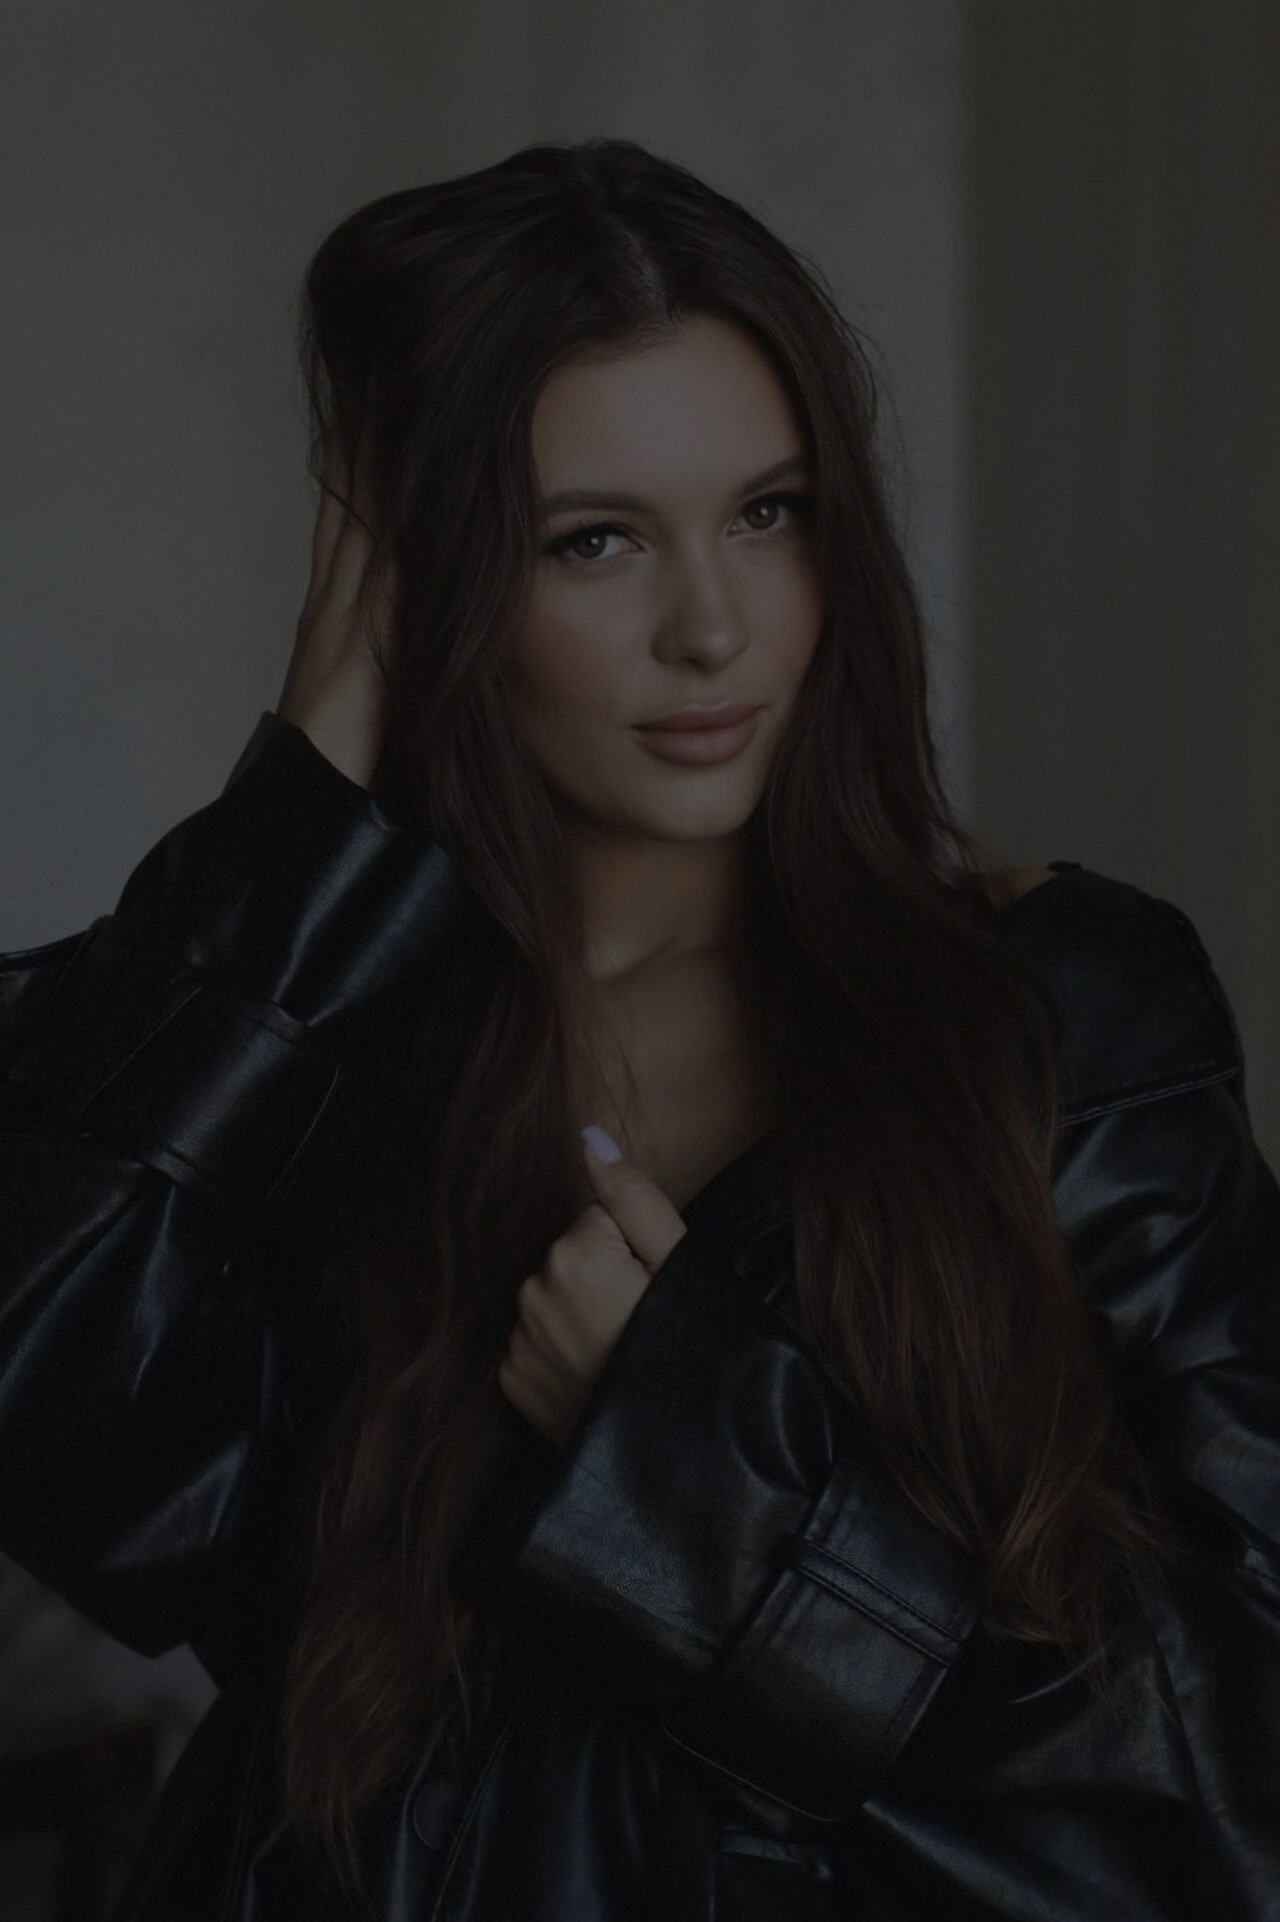
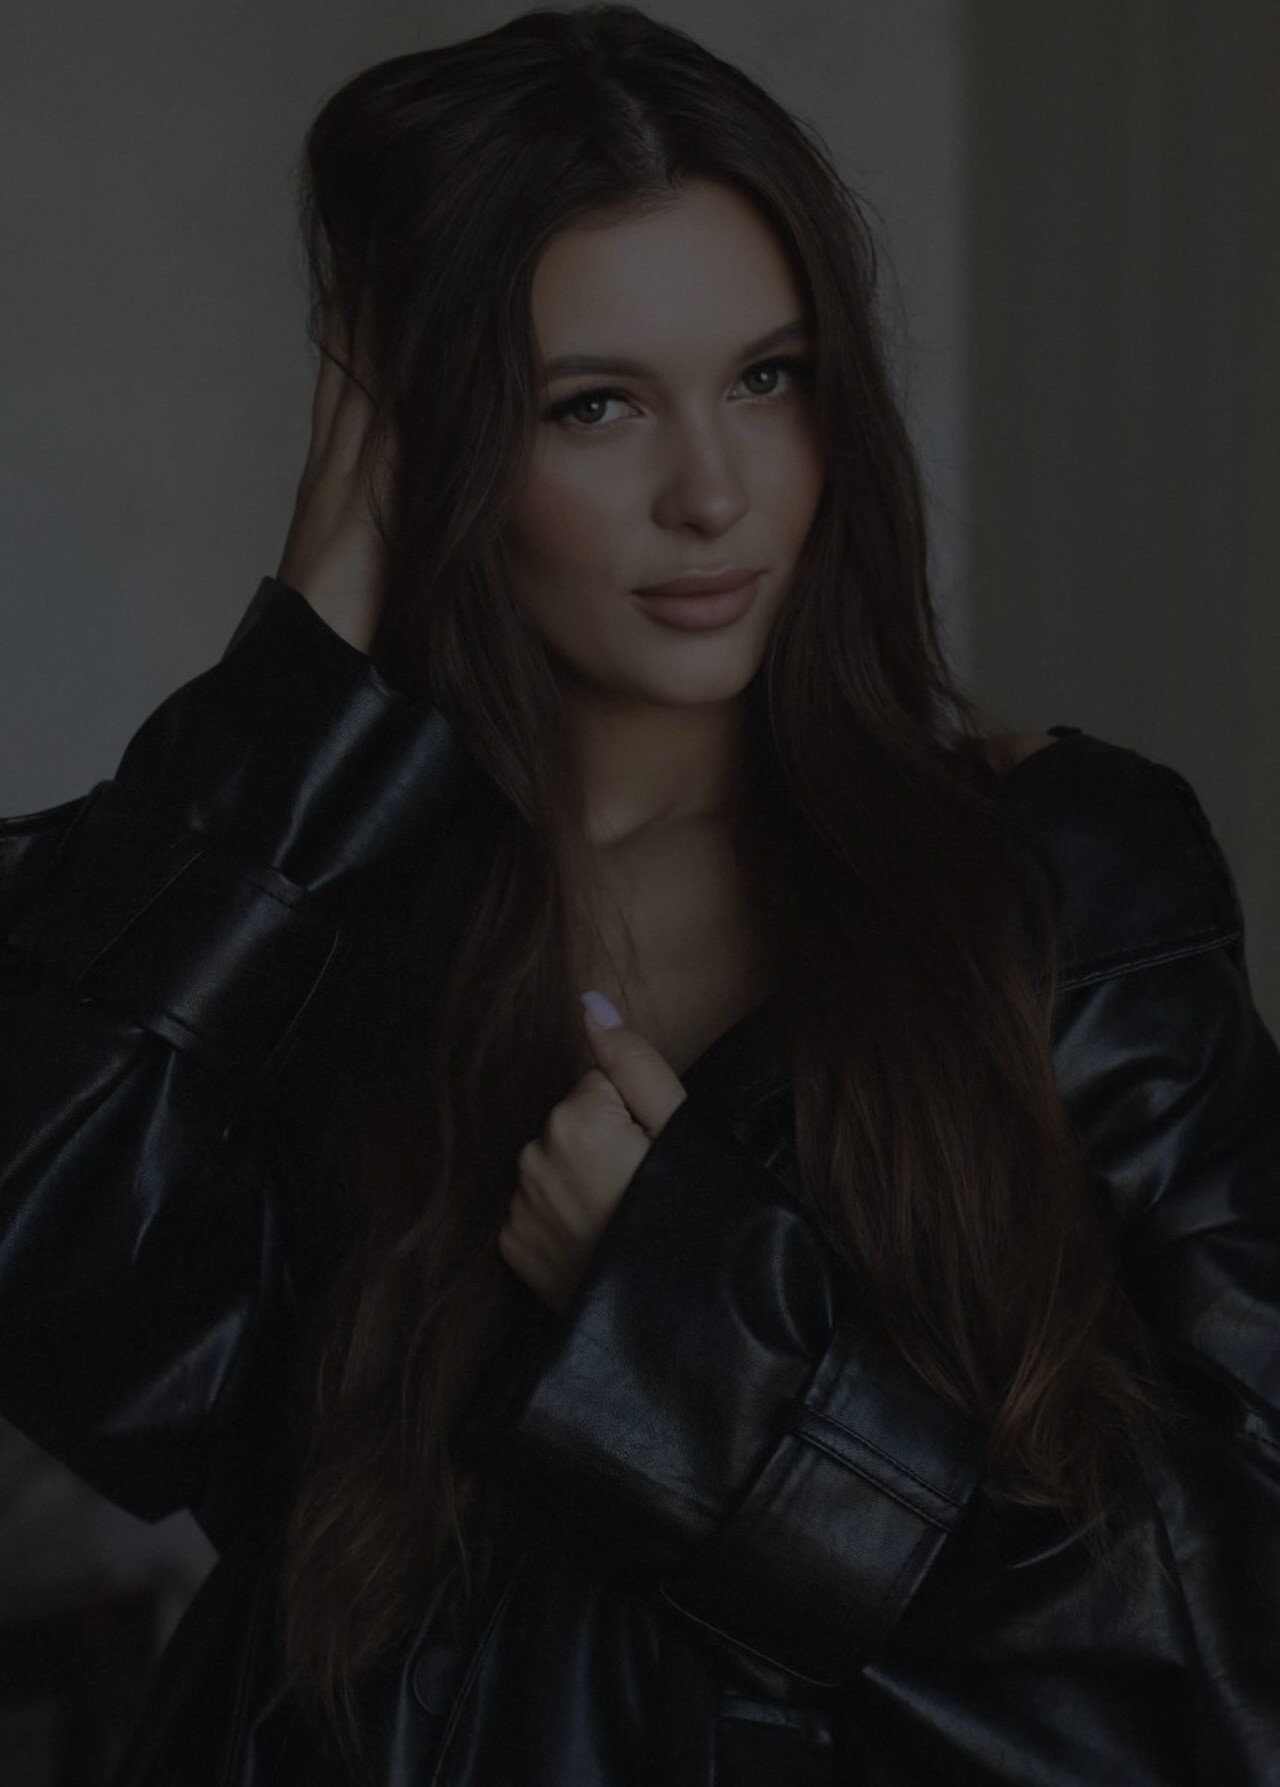
Добавлены правки на русском, изменен размер фото

diff --git a/index.html b/index.html
@@ -39,7 +39,7 @@
 					<div class="top-nav">
 					<div class="navigation">
 					<div class="logo">
-						<h1><a href="index.html"><span>А</span>Альфа</a></h1>
+						<h1><a href="index.html"><span>А</span>,<h2>Альфа-банк</h2></a></h1>
 					</div>
 					<div class="navigation-right">
 						<span class="menu"><img src="images/menu.png" alt=" " /></span>
@@ -128,12 +128,8 @@
 					                <div class="item">
 					                	<div class="about-left-grid">
 											<h2>Приветствую! <span>Меня зовут Диана!</span></h2>
-											<p>Я являюсь главным советником по бизнесу в Альфа Банке с опытом работы в этой сфере более 3 лет. За это время мне удалось разработать и внедрить стратегии, которые способствовали росту бизнеса и укреплению отношений с клиентами.
-                                                Моя работа включает в себя:
-                                                - Анализ потребностей клиентов для создания индивидуальных финансовых решений.
-                                                - Консультирование бизнеса по вопросам кредитования, инвестиционных возможностей и управления рисками.
-                                                - Сбор и анализ данных для оценки финансовых показателей и выявления новых возможностей для роста.
-                                                Я горжусь тем, что могу предложить своим клиентам экспертизу и поддержку на каждом этапе их бизнес-пути. Моя цель — помочь клиентам достигать их бизнес-целей с помощью надёжных и инновационных банковских решений.</p>
+											<p>Я являюсь главным советником по бизнесу в Альфа Банке с опытом работы в этой сфере более 3 лет.
+                                                За это время мне удалось разработать и внедрить стратегии, которые способствовали росту бизнеса и укреплению отношений с клиентами.</p>
 											<ul>
 												<li><a class="a-btn-a scroll" href="#port">Моя работа</a></li>
 												<li><a class="a-btn-h scroll" href="#contact">Обо мне</a></li>
@@ -143,12 +139,11 @@
 					                  <div class="item">
 					                	<div class="about-left-grid">
 											<h2>Приветствую! <span>Меня зовут Диана!</span></h2>
-											<p>Я являюсь главным советником по бизнесу в Альфа Банке с опытом работы в этой сфере более 3 лет. За это время мне удалось разработать и внедрить стратегии, которые способствовали росту бизнеса и укреплению отношений с клиентами.
-                                                Моя работа включает в себя:
+											<p>Моя работа включает в себя:
                                                 - Анализ потребностей клиентов для создания индивидуальных финансовых решений.
                                                 - Консультирование бизнеса по вопросам кредитования, инвестиционных возможностей и управления рисками.
                                                 - Сбор и анализ данных для оценки финансовых показателей и выявления новых возможностей для роста.
-                                                Я горжусь тем, что могу предложить своим клиентам экспертизу и поддержку на каждом этапе их бизнес-пути. Моя цель — помочь клиентам достигать их бизнес-целей с помощью надёжных и инновационных банковских решений.</p>
+                                            </p>
 											<ul>
 												<li><a class="a-btn-a scroll" href="#port">Моя работа</a></li>
 												<li><a class="a-btn-h scroll" href="#contact">Обо мне</a></li>
@@ -158,12 +153,8 @@
 					                  <div class="item">
 					                	<div class="about-left-grid">
 											<h2>Приветствую! <span>Меня зовут Диана!</span></h2>
-											<p>Я являюсь главным советником по бизнесу в Альфа Банке с опытом работы в этой сфере более 3 лет. За это время мне удалось разработать и внедрить стратегии, которые способствовали росту бизнеса и укреплению отношений с клиентами.
-                                                Моя работа включает в себя:
-                                                - Анализ потребностей клиентов для создания индивидуальных финансовых решений.
-                                                - Консультирование бизнеса по вопросам кредитования, инвестиционных возможностей и управления рисками.
-                                                - Сбор и анализ данных для оценки финансовых показателей и выявления новых возможностей для роста.
-                                                Я горжусь тем, что могу предложить своим клиентам экспертизу и поддержку на каждом этапе их бизнес-пути. Моя цель — помочь клиентам достигать их бизнес-целей с помощью надёжных и инновационных банковских решений.</p>
+											<p>Я горжусь тем, что могу предложить своим клиентам экспертизу и поддержку на каждом этапе их бизнес-пути.
+                                                Моя цель — помочь клиентам достигать их бизнес-целей с помощью надёжных и инновационных банковских решений.</p>
 											<ul>
 												<li><a class="a-btn-a scroll" href="#port">Моя работа</a></li>
 												<li><a class="a-btn-h scroll" href="#contact">Обо мне</a></li>
@@ -294,10 +285,10 @@
 																  <div class="timeline-badge info"><i class="glyphicon glyphicon-briefcase"></i></div>
 																  <div class="timeline-panel">
 																	<div class="timeline-heading">
-																	  <h4 class="timeline-title">COMPANY NAME</h4>
+																	  <h4 class="timeline-title">Компания</h4>
 																	</div>
 																	<div class="timeline-body">
-																	  <p>Lorem ipsum dolor sit amet.Itaque earum rerum hic tenetur a sapiente delectus, ut aut reiciendis voluptatibus maiores alias consequatur aut perferendis doloribus </p>
+																	  <p>Описание </p>
 																	</div>
 																  </div>
 																</li>
@@ -306,10 +297,10 @@
 																  <div class="timeline-badge primary"><i class="glyphicon glyphicon-briefcase"></i></div>
 																  <div class="timeline-panel">
 																	<div class="timeline-heading">
-																	  <h4 class="timeline-title">COMPANY NAME</h4>
+																	  <h4 class="timeline-title">Компания</h4>
 																	</div>
 																	<div class="timeline-body">
-																	  <p>Lorem ipsum dolor sit amet.Itaque earum rerum hic tenetur a sapiente delectus, ut aut reiciendis voluptatibus maiores alias consequatur aut perferendis doloribus </p>
+																	  <p>Описание </p>
 																	</div>
 																  </div>
 																</li>
@@ -320,10 +311,10 @@
 																  <div class="timeline-badge danger"><i class="glyphicon glyphicon-briefcase"></i></div>
 																  <div class="timeline-panel">
 																	<div class="timeline-heading">
-																	  <h4 class="timeline-title">COMPANY NAME</h4>
+																	  <h4 class="timeline-title">Компания</h4>
 																	</div>
 																	<div class="timeline-body">
-																	  <p>Lorem ipsum dolor sit amet.Itaque earum rerum hic tenetur a sapiente delectus, ut aut reiciendis voluptatibus maiores alias consequatur aut perferendis doloribus </p>
+																	  <p>Описание </p>
 																	</div>
 																  </div>
 																</li>
@@ -332,10 +323,10 @@
 																  <div class="timeline-badge success"><i class="glyphicon glyphicon-briefcase"></i></div>
 																  <div class="timeline-panel">
 																	<div class="timeline-heading">
-																	  <h4 class="timeline-title">COMPANY NAME</h4>
+																	  <h4 class="timeline-title">Компания</h4>
 																	</div>
 																	<div class="timeline-body">
-																	  <p>Lorem ipsum dolor sit amet.Itaque earum rerum hic tenetur a sapiente delectus, ut aut reiciendis voluptatibus maiores alias consequatur aut perferendis doloribus </p>
+																	  <p>Описание</p>
 																	</div>
 																  </div>
 																</li>
@@ -343,10 +334,10 @@
 																  <div class="timeline-badge pass"><i class="glyphicon glyphicon-briefcase"></i></div>
 																  <div class="timeline-panel">
 																	<div class="timeline-heading">
-																	  <h4 class="timeline-title">COMPANY NAME</h4>
+																	  <h4 class="timeline-title">Компания</h4>
 																	</div>
 																	<div class="timeline-body">
-																	  <p>Lorem ipsum dolor sit amet.Itaque earum rerum hic tenetur a sapiente delectus, ut aut reiciendis voluptatibus maiores alias consequatur aut perferendis doloribus </p>
+																	  <p>Описание </p>
 																	</div>
 																  </div>
 																</li>
@@ -458,7 +449,7 @@
 	<div class="container">
 	<div class="service-head one text-center">
 						<h4>Мои контакты</h4>
-						<h3>GET <span>IN TOUCH WITH ME</span></h3>
+						<h3>Связаться <span>со мной</span></h3>
 						<span class="border two"></span>
 					</div>
 		<div class="mail_us">
@@ -466,7 +457,7 @@
 				<div class="contact-grid1-left">
 					<div class="contact-grid1-left1">
 						<span class="glyphicon glyphicon-envelope" aria-hidden="true"></span>
-						<h4>Contact By Email</h4>
+						<h4>Написать на email</h4>
 						<ul>
 							<li>Mail1: <a href="mailto:info@example.com">info@example1.com</a></li>
 							<li>Mail2: <a href="mailto:info@example.com">info@example2.com</a></li>
@@ -476,9 +467,9 @@
 					<div class="contact-grid1-left">
 						<div class="contact-grid1-left1">
 							<span class="glyphicon glyphicon-earphone" aria-hidden="true"></span>
-							<h4>Contact By Phone</h4>
+							<h4>Позвонить по телефону</h4>
 							<ul>
-								<li>Phone: +0000 123 312</li>
+								<li>Телефон: +7 (989) 701-80-11</li>
 								<li>Fax: +123 312</li>
 							</ul>
 						</div>
@@ -486,10 +477,10 @@
 					<div class="contact-grid1-left">
 						<div class="contact-grid1-left1">
 							<span class="glyphicon glyphicon-home" aria-hidden="true"></span>
-							<h4>Looking For Address</h4>
+							<h4>Адрес офиса</h4>
 							<ul>
-								<li>Address: General Pvt 66, Dong Da</li>
-								<li>Hanoi, Vietnam.</li>
+								<li>Адрес: ул.Красноармейская д.206</li>
+								<li>Ростов-на-Дону</li>
 							</ul>
 						</div>
 					</div>
@@ -508,7 +499,7 @@
 			<div class="clearfix"></div>
 		</div>
 		<div class="copy_right text-center">
-			<p>&copy; 2016 Альфа . All rights reserved | Design by <a href="http://w3layouts.com/" target="_blank">W3layouts.</a></p>
+			<p>&copy; 2024. All rights reserved | Design by <a href="http://w3layouts.com/" target="_blank">W3layouts.</a></p>
 			 <ul class="social-icons two">
 							<li><a href="#"> </a></li>
 							<li><a href="#" class="fb"> </a></li>
